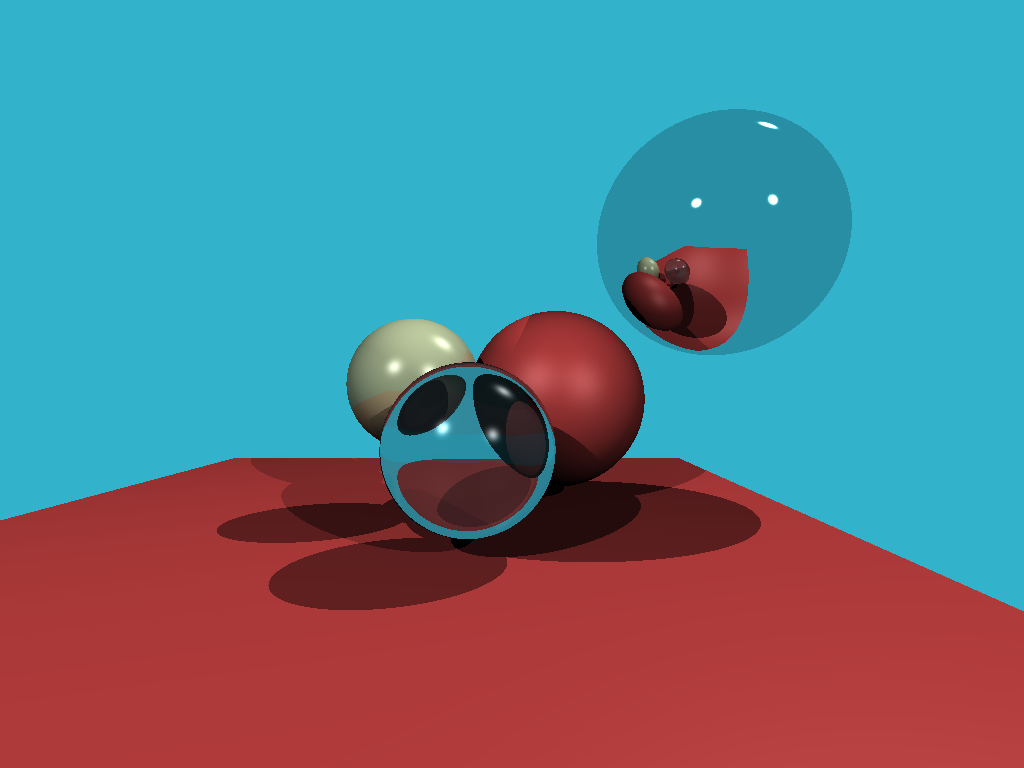
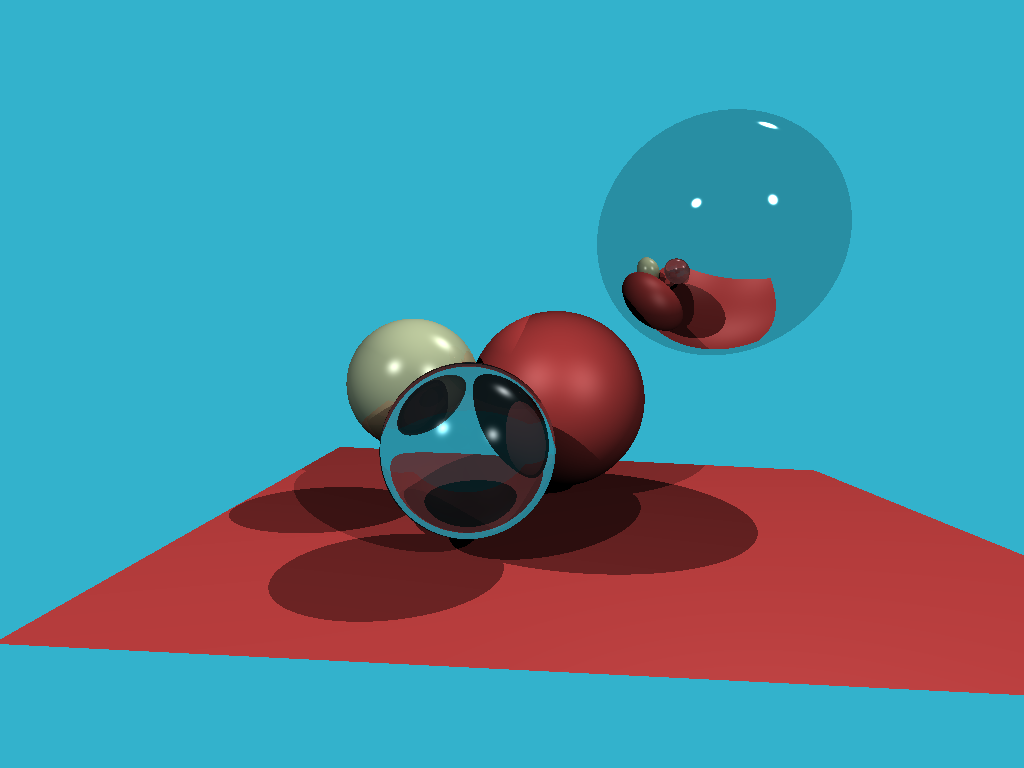
fix directional intersection with plane, make plane moer interesting (tilting)

diff --git a/src/blocks.rs b/src/blocks.rs
@@ -11,6 +11,7 @@ pub trait RayCollision {
     fn collision_material(&self, hit_point: Vec3) -> Material;
 }
 
+#[derive(Debug)]
 pub struct Plane {
     pub normal: Vec3,
     pub point: Vec3,
@@ -40,6 +41,7 @@ impl RayCollision for Plane {
 }
 
 /// 2D rectangle in a 3D space
+#[derive(Debug)]
 pub struct Rectangle2D {
     width: Vec3,
     height: Vec3,
@@ -86,10 +88,14 @@ impl RayCollision for Rectangle2D {
                 // plane.point is the origin of the rectangle.
                 // rectangle stretches across self.width, self.height
                 let d = p - self.plane.point;
-                if let (true, true) = (
-                    d.project_on(&self.width).l2() <= self.width.l2(),
-                    d.project_on(&self.height).l2() <= self.height.l2(),
-                ) {
+                let w_porj = d.project_on(&self.width);
+                let h_proj = d.project_on(&self.height);
+                if let (true, true, true, true) = (
+                    w_porj.l2() <= self.width.l2(),
+                    h_proj.l2() <= self.height.l2(),
+                    w_porj.dot(&self.width) > 0.,
+                    h_proj.dot(&self.height) > 0.
+                ){
                     HitPoint::Point(p)
                 } else {
                     HitPoint::None

diff --git a/src/main.rs b/src/main.rs
@@ -315,13 +315,13 @@ fn main() {
         .collect::<Vec<SceneObject>>();
 
     let plain = Rectangle2D::new(
-        Vec3::new((-3., -4., -12.)),
-        Vec3::new((3.,-4., -20.)),
-        Vec3::new((1., 0., 0.)),
+        Vec3::new((-8., -4., -8.)),
+        Vec3::new((3.,-4., -16.)),
+        Vec3::new((1., -0.05, 0.)),
         red_rubber,
     );
 
-    scene.push(Box::new(plain));
+    scene.push(Box::new(dbg!(plain)));
 
     let lights = LightBuilder::new()
         .add((-20., 20., 20.), 1.5)
